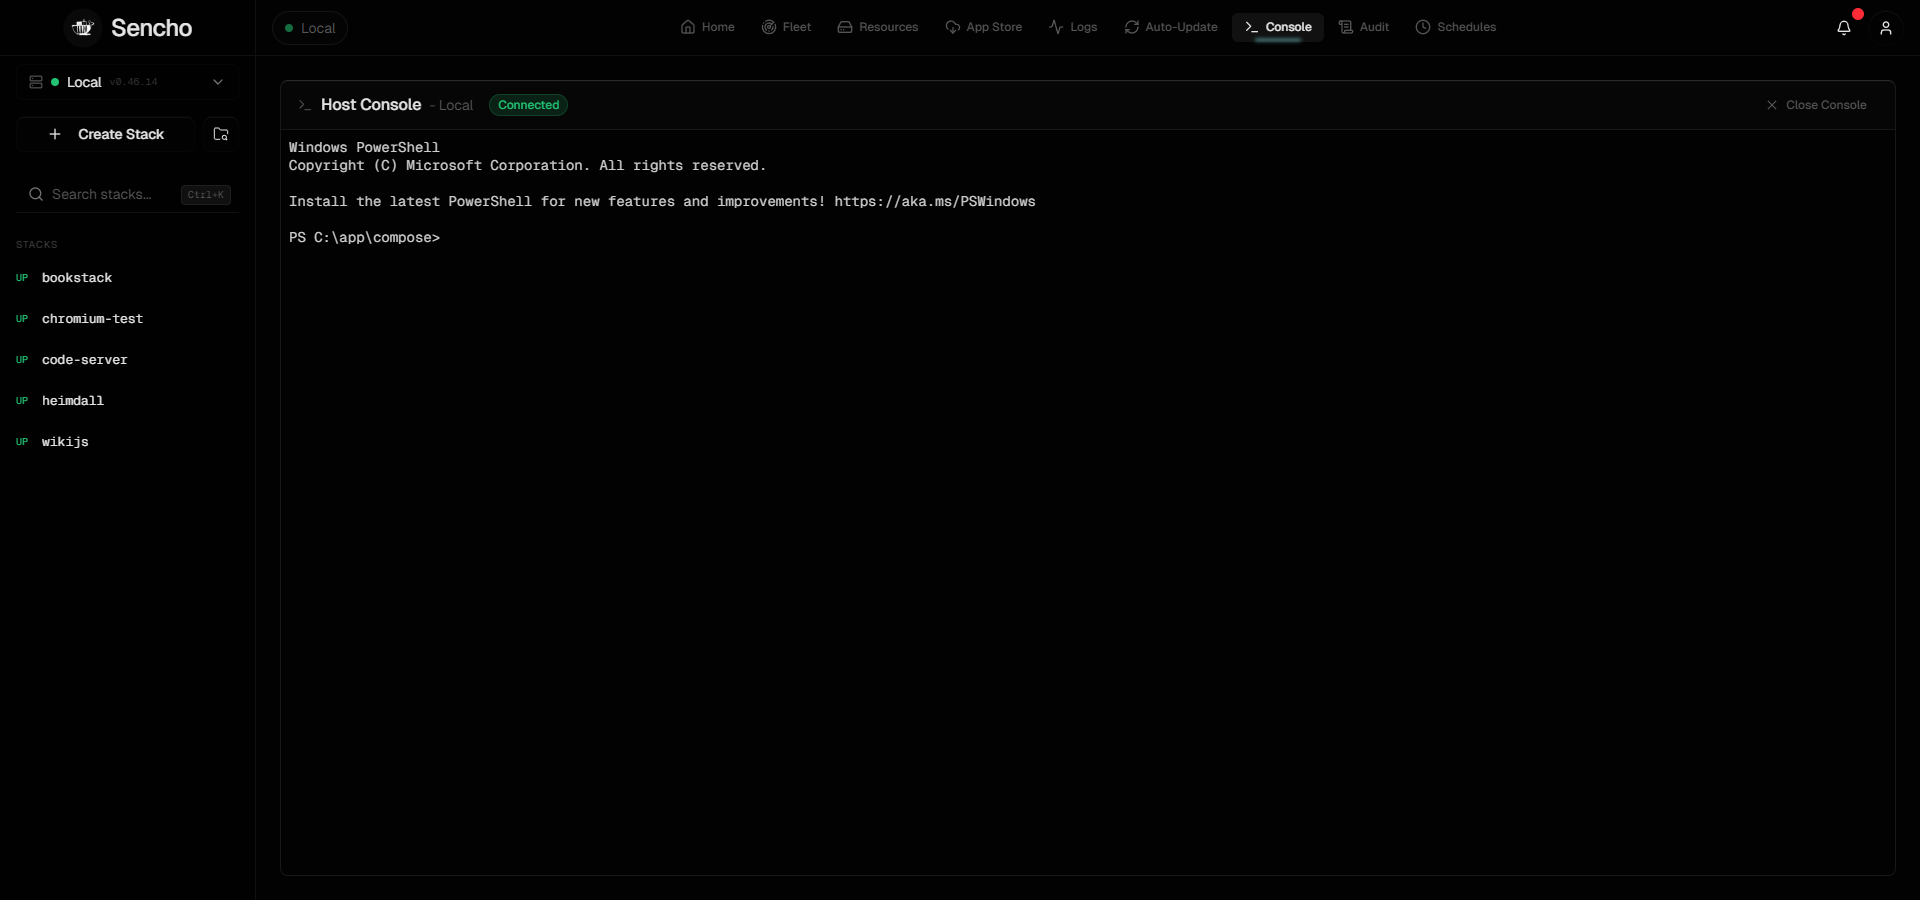
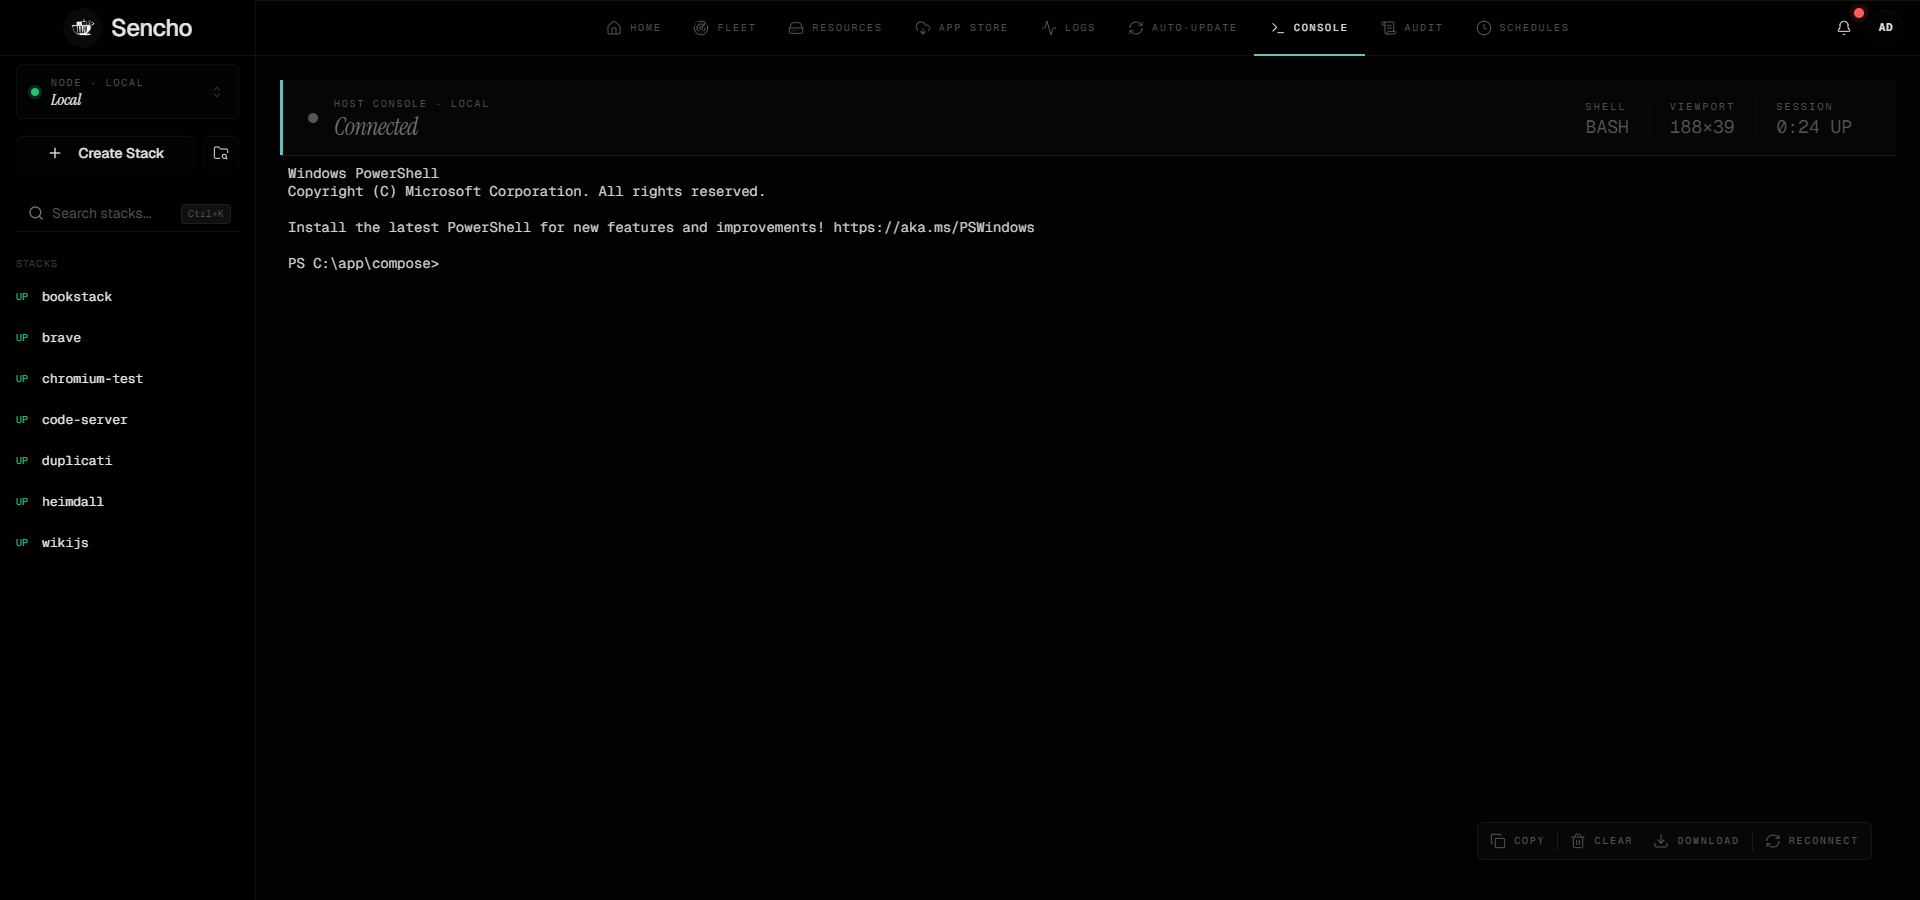
feat(ui): redesign host console as cockpit surface (#701)
* feat(ui): redesign host console as cockpit surface

Rework the Console view into the cockpit language introduced in #699.
The page is now a PageMasthead strip plus a terminal well plus a
floating chip strip.

The masthead shows connection state (`Connected`, `Reconnecting`,
`Disconnected`) with a cyan rail, a pulsing status dot while the
session is live, an italic state word, and a tracked-mono kicker of
`HOST CONSOLE · {node}`. The right side surfaces three metadata tiles:
shell, current viewport dimensions, and session uptime. When the
console was opened from a stack, a small back link sits beside the
state word so operators can return to the stack editor without
leaving the cockpit.

The vestigial Close Console button in the header is gone. The
floating chip strip replaces it with four controls that are more
useful in context: Copy (current selection), Clear (scrollback),
Download (full scrollback via SerializeAddon), and Reconnect (close
and reopen the WebSocket in place).

* docs(host-console): refresh screenshots for cockpit redesign

Adds masthead and chip-strip close-up screenshots to the Host Console doc
and refreshes the overview screenshot to match the new cockpit surface.

diff --git a/frontend/src/components/HostConsole.tsx b/frontend/src/components/HostConsole.tsx
@@ -1,8 +1,10 @@
 import { useEffect, useRef, useState, useCallback } from 'react';
 import { Terminal } from '@xterm/xterm';
 import { FitAddon } from '@xterm/addon-fit';
-import { Terminal as TerminalIcon, X } from 'lucide-react';
+import { SerializeAddon } from '@xterm/addon-serialize';
+import { ArrowLeft, Copy, Trash2, Download, RefreshCw } from 'lucide-react';
 import { Button } from './ui/button';
+import { PageMasthead, type MastheadTone } from './ui/PageMasthead';
 import '@xterm/xterm/css/xterm.css';
 import { useNodes } from '@/context/NodeContext';
 
@@ -10,6 +12,9 @@ interface HostConsoleProps {
     stackName?: string | null;
     onClose: () => void;
 }
+
+// Window considered "live" for the masthead pulsing dot.
+const LIVE_WINDOW_MS = 5_000;
 
 /** Build the xterm theme from CSS custom properties (resolved once per call). */
 function getTerminalTheme() {
@@ -23,25 +28,41 @@ function getTerminalTheme() {
     };
 }
 
+function formatUptime(ms: number): string {
+    const totalSeconds = Math.max(0, Math.floor(ms / 1000));
+    const h = Math.floor(totalSeconds / 3600);
+    const m = Math.floor((totalSeconds % 3600) / 60);
+    const s = totalSeconds % 60;
+    if (h > 0) return `${h}H ${m.toString().padStart(2, '0')}M`;
+    return `${m}:${s.toString().padStart(2, '0')} UP`;
+}
+
+type ConnState = 'reconnecting' | 'connected' | 'disconnected';
+
 export default function HostConsole({ stackName, onClose }: HostConsoleProps) {
     const { activeNode } = useNodes();
     const terminalRef = useRef<HTMLDivElement>(null);
     const xtermRef = useRef<Terminal | null>(null);
     const fitAddonRef = useRef<FitAddon | null>(null);
+    const serializeRef = useRef<SerializeAddon | null>(null);
     const wsRef = useRef<WebSocket | null>(null);
-    const [isConnected, setIsConnected] = useState(false);
 
-    const cleanup = useCallback(() => {
-        if (wsRef.current) {
-            wsRef.current.close();
-            wsRef.current = null;
-        }
-        if (xtermRef.current) {
-            xtermRef.current.dispose();
-            xtermRef.current = null;
-        }
-        fitAddonRef.current = null;
-        setIsConnected(false);
+    const [connState, setConnState] = useState<ConnState>('reconnecting');
+    const [lastActivityAt, setLastActivityAt] = useState<number | null>(null);
+    const [dims, setDims] = useState<{ cols: number; rows: number }>({ cols: 0, rows: 0 });
+    const [mountedAt, setMountedAt] = useState<number | null>(null);
+    const [tick, setTick] = useState(0);
+    const [reconnectNonce, setReconnectNonce] = useState(0);
+
+    useEffect(() => {
+        const run = () => {
+            const now = Date.now();
+            setTick(now);
+            setMountedAt(prev => prev ?? now);
+        };
+        const init = setTimeout(run, 0);
+        const id = setInterval(run, 1000);
+        return () => { clearTimeout(init); clearInterval(id); };
     }, []);
 
     useEffect(() => {
@@ -58,15 +79,21 @@ export default function HostConsole({ stackName, onClose }: HostConsoleProps) {
         });
 
         const fitAddon = new FitAddon();
+        const serializeAddon = new SerializeAddon();
         term.loadAddon(fitAddon);
+        term.loadAddon(serializeAddon);
         term.open(container);
 
         xtermRef.current = term;
         fitAddonRef.current = fitAddon;
+        serializeRef.current = serializeAddon;
 
         requestAnimationFrame(() => {
             try {
-                if (mounted) fitAddon.fit();
+                if (mounted) {
+                    fitAddon.fit();
+                    setDims({ cols: term.cols, rows: term.rows });
+                }
             } catch {
                 // Ignore fit errors during initial render
             }
@@ -83,12 +110,16 @@ export default function HostConsole({ stackName, onClose }: HostConsoleProps) {
 
         ws.onopen = () => {
             if (!mounted) return;
-            setIsConnected(true);
+            setConnState('connected');
+            setLastActivityAt(Date.now());
             term.focus();
 
             setTimeout(() => {
                 try {
-                    if (mounted) fitAddon.fit();
+                    if (mounted) {
+                        fitAddon.fit();
+                        setDims({ cols: term.cols, rows: term.rows });
+                    }
                 } catch {
                     // Ignore
                 }
@@ -106,18 +137,19 @@ export default function HostConsole({ stackName, onClose }: HostConsoleProps) {
             if (!mounted) return;
             const text = typeof event.data === 'string' ? event.data : event.data.toString();
             term.write(text);
+            setLastActivityAt(Date.now());
         };
 
         ws.onerror = () => {
             if (!mounted) return;
             term.write('\r\n\x1b[31mConnection error\x1b[0m\r\n');
-            setIsConnected(false);
+            setConnState('disconnected');
         };
 
         ws.onclose = () => {
             if (!mounted) return;
             term.write('\r\n\x1b[33mSession ended\x1b[0m\r\n');
-            setIsConnected(false);
+            setConnState('disconnected');
         };
 
         term.onData((data) => {
@@ -136,6 +168,7 @@ export default function HostConsole({ stackName, onClose }: HostConsoleProps) {
                 if (!mounted || !fitAddonRef.current || !wsRef.current) return;
                 try {
                     fitAddonRef.current.fit();
+                    setDims({ cols: term.cols, rows: term.rows });
                 } catch {
                     return;
                 }
@@ -155,42 +188,143 @@ export default function HostConsole({ stackName, onClose }: HostConsoleProps) {
             mounted = false;
             resizeObserver.disconnect();
             clearTimeout(resizeTimeout);
-            cleanup();
+            if (wsRef.current) {
+                wsRef.current.close();
+                wsRef.current = null;
+            }
+            if (xtermRef.current) {
+                xtermRef.current.dispose();
+                xtermRef.current = null;
+            }
+            fitAddonRef.current = null;
+            serializeRef.current = null;
         };
-    }, [stackName, cleanup]);
+    }, [stackName, reconnectNonce]);
+
+    const handleCopy = useCallback(() => {
+        const term = xtermRef.current;
+        if (!term) return;
+        const selection = term.getSelection();
+        if (!selection) return;
+        navigator.clipboard?.writeText(selection).catch(() => { /* ignore */ });
+    }, []);
+
+    const handleClear = useCallback(() => {
+        xtermRef.current?.clear();
+    }, []);
+
+    const handleDownload = useCallback(() => {
+        const content = serializeRef.current?.serialize();
+        if (!content) return;
+        const blob = new Blob([content], { type: 'text/plain;charset=utf-8' });
+        const url = URL.createObjectURL(blob);
+        const a = document.createElement('a');
+        a.href = url;
+        a.download = `sencho-console-${new Date().toISOString().replace(/[:.]/g, '-')}.txt`;
+        document.body.appendChild(a);
+        a.click();
+        document.body.removeChild(a);
+        URL.revokeObjectURL(url);
+    }, []);
+
+    const handleReconnect = useCallback(() => {
+        setConnState('reconnecting');
+        setReconnectNonce(n => n + 1);
+    }, []);
+
+    const isLive = connState === 'connected' && lastActivityAt != null && (tick - lastActivityAt) < LIVE_WINDOW_MS;
+    const tone: MastheadTone = connState === 'disconnected'
+        ? 'error'
+        : connState === 'reconnecting'
+            ? 'warn'
+            : isLive ? 'live' : 'idle';
+    const stateWord = connState === 'disconnected'
+        ? 'Disconnected'
+        : connState === 'reconnecting' ? 'Reconnecting' : 'Connected';
+    const nodeLabel = activeNode ? (activeNode.type === 'local' ? 'LOCAL' : activeNode.name.toUpperCase()) : 'LOCAL';
+    const kicker = `HOST CONSOLE · ${nodeLabel}`;
+
+    const uptime = mountedAt != null ? formatUptime(tick - mountedAt) : '—';
+    const viewport = dims.cols > 0 && dims.rows > 0 ? `${dims.cols}×${dims.rows}` : '—';
+    const metadata = [
+        { label: 'SHELL', value: 'BASH', tone: 'subtitle' as const },
+        { label: 'VIEWPORT', value: viewport, tone: 'subtitle' as const },
+        { label: 'SESSION', value: uptime, tone: 'subtitle' as const },
+    ];
 
     return (
-        <div className="flex flex-col h-full w-full rounded-lg border border-card-border border-t-card-border-top bg-card text-card-foreground shadow-card-bevel overflow-hidden transition-colors hover:border-t-card-border-hover">
-            <div className="flex items-center justify-between px-4 py-2 border-b border-card-border bg-muted/40 shrink-0">
-                <div className="flex items-center gap-2 font-medium">
-                    <TerminalIcon className="w-4 h-4 text-muted-foreground" strokeWidth={1.5} />
-                    <span>Host Console</span>
-                    {activeNode && (
-                        <span className="text-muted-foreground font-normal text-sm">
-                            - {activeNode.name}
-                        </span>
-                    )}
-                    {stackName && (
-                        <span className="text-muted-foreground font-normal text-sm">
-                            ({stackName})
-                        </span>
-                    )}
-                    {isConnected && (
-                        <span className="ml-2 text-xs bg-success-muted text-success px-2 py-0.5 rounded-full border border-success/20">
-                            Connected
-                        </span>
-                    )}
-                </div>
-                <Button variant="ghost" size="sm" onClick={onClose} className="h-8 gap-1.5 text-muted-foreground hover:text-foreground">
-                    <X className="w-4 h-4" strokeWidth={1.5} />
-                    Close Console
-                </Button>
-            </div>
+        <div className="relative flex h-full w-full flex-col bg-background text-foreground">
+            <PageMasthead
+                kicker={kicker}
+                state={stateWord}
+                tone={tone}
+                pulsing={tone === 'live' || tone === 'warn'}
+                metadata={metadata}
+            >
+                {stackName ? (
+                    <button
+                        type="button"
+                        onClick={onClose}
+                        className="inline-flex items-center gap-1.5 rounded-md border border-card-border bg-card px-2 py-1 font-mono text-[10px] uppercase tracking-[0.18em] text-stat-subtitle shadow-btn-glow transition-colors hover:text-stat-value focus-visible:outline-none focus-visible:ring-2 focus-visible:ring-brand/50"
+                    >
+                        <ArrowLeft className="h-3 w-3" strokeWidth={1.5} />
+                        <span className="max-w-[160px] truncate">{stackName}</span>
+                    </button>
+                ) : null}
+            </PageMasthead>
+
             <div
-                className="flex-1 p-2 min-h-0 relative shadow-[inset_0_2px_4px_0_oklch(0_0_0/0.4)]"
+                className="relative min-h-0 flex-1 p-2 shadow-[inset_0_2px_4px_0_oklch(0_0_0/0.4)]"
                 style={{ backgroundColor: 'var(--terminal-bg)', overflow: 'hidden' }}
             >
                 <div ref={terminalRef} style={{ width: '100%', height: '100%' }} />
+
+                <div className="pointer-events-none absolute bottom-4 right-6 z-10 flex items-center gap-2">
+                    <div className="pointer-events-auto flex items-center gap-1 rounded-md border border-glass-border bg-popover/95 p-1 shadow-md backdrop-blur-[10px] backdrop-saturate-[1.15]">
+                        <Button
+                            variant="ghost"
+                            size="sm"
+                            onClick={handleCopy}
+                            className="h-7 gap-2 px-2 text-xs text-stat-subtitle hover:text-stat-value"
+                            aria-label="Copy selection"
+                        >
+                            <Copy className="h-3.5 w-3.5" strokeWidth={1.5} />
+                            <span className="font-mono text-[10px] uppercase tracking-[0.18em]">Copy</span>
+                        </Button>
+                        <div className="h-5 w-px bg-card-border" />
+                        <Button
+                            variant="ghost"
+                            size="sm"
+                            onClick={handleClear}
+                            className="h-7 gap-2 px-2 text-xs text-stat-subtitle hover:text-stat-value"
+                            aria-label="Clear terminal"
+                        >
+                            <Trash2 className="h-3.5 w-3.5" strokeWidth={1.5} />
+                            <span className="font-mono text-[10px] uppercase tracking-[0.18em]">Clear</span>
+                        </Button>
+                        <Button
+                            variant="ghost"
+                            size="sm"
+                            onClick={handleDownload}
+                            className="h-7 gap-2 px-2 text-xs text-stat-subtitle hover:text-stat-value"
+                            aria-label="Download scrollback"
+                        >
+                            <Download className="h-3.5 w-3.5" strokeWidth={1.5} />
+                            <span className="font-mono text-[10px] uppercase tracking-[0.18em]">Download</span>
+                        </Button>
+                        <div className="h-5 w-px bg-card-border" />
+                        <Button
+                            variant="ghost"
+                            size="sm"
+                            onClick={handleReconnect}
+                            className="h-7 gap-2 px-2 text-xs text-stat-subtitle hover:text-stat-value"
+                            aria-label="Reconnect session"
+                        >
+                            <RefreshCw className="h-3.5 w-3.5" strokeWidth={1.5} />
+                            <span className="font-mono text-[10px] uppercase tracking-[0.18em]">Reconnect</span>
+                        </Button>
+                    </div>
+                </div>
             </div>
         </div>
     );
